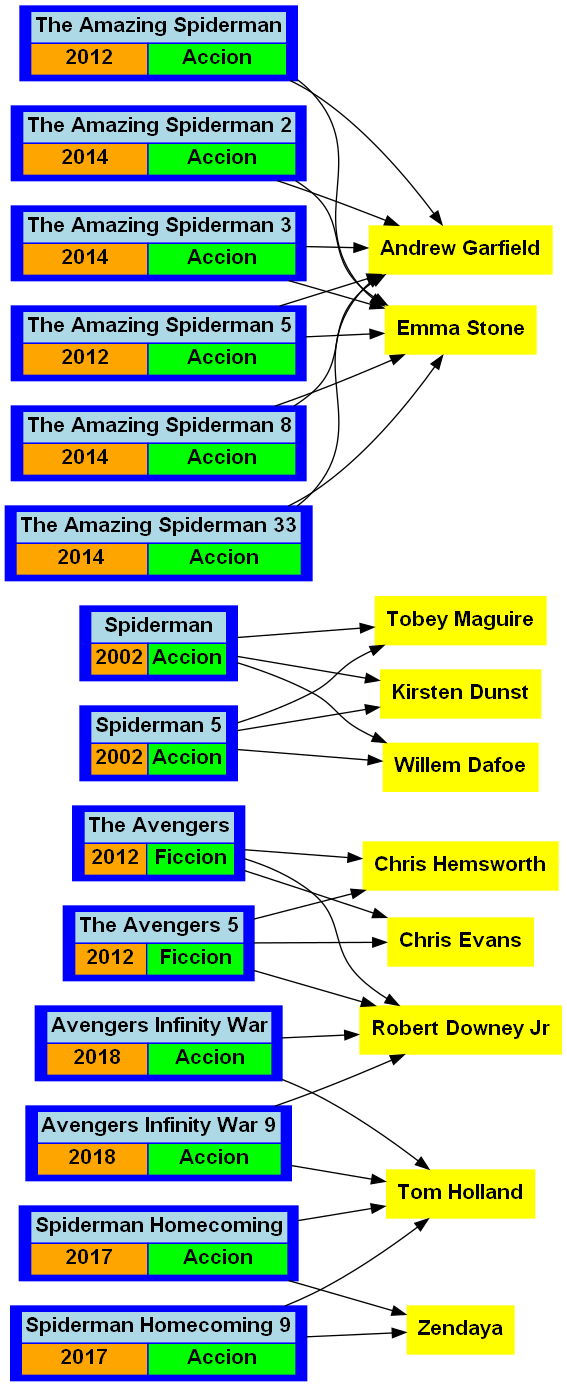
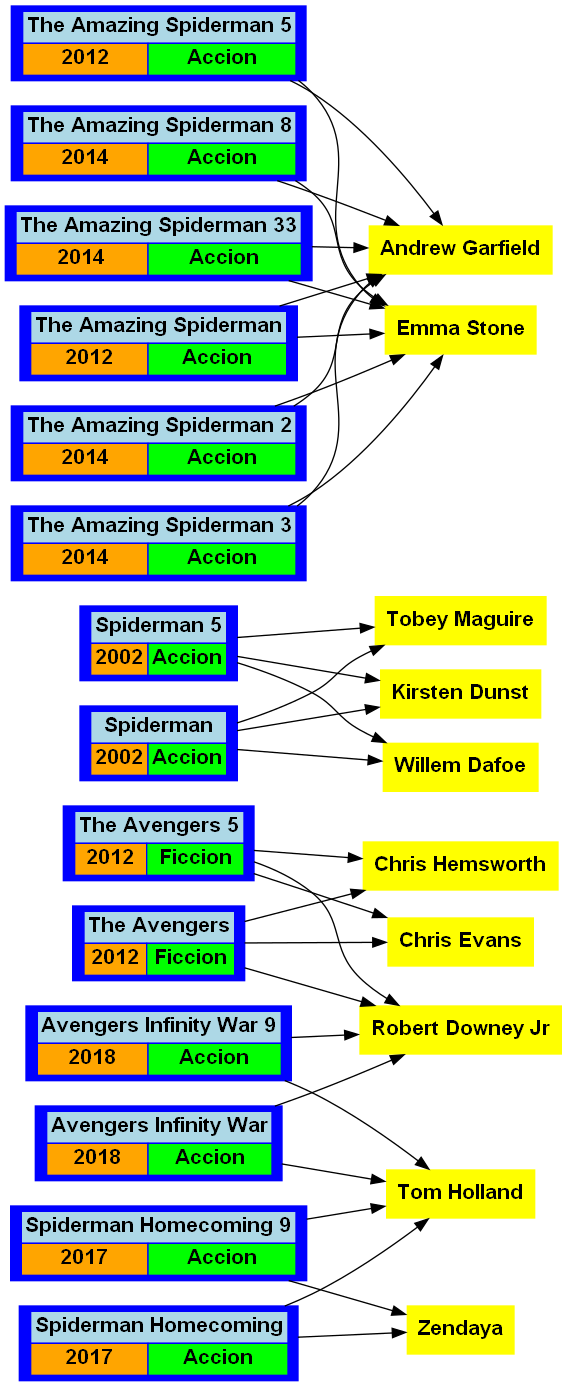
cambio para verificar carga de archivo

diff --git a/main.py b/main.py
@@ -42,10 +42,16 @@ def cargarArchivo(lista, nombres):
             elif i == 3:
                 tmp_genero = separador[i].strip()
         # comparamos si tmp_nombre se encuentra en la lista nombres, esta condicion funciona para verificar si hay alguna pelicula repetida, se compara con el nombre ya que es el unico elemento distinto
-        if tmp_nombre not in nombres:
-            peli = peliculas(tmp_nombre, tmp_actores, tmp_anio, tmp_genero)
-            lista.append(peli)
-            nombres.append(tmp_nombre)
+        if tmp_nombre in nombres:
+            for peli in lista:  # ciclo para buscar pelicula en la lista y removerla
+                if peli.nombre == tmp_nombre:
+                    lista.remove(peli)
+                    break
+        # se crea la lista objeto de peliculas
+        peli = peliculas(tmp_nombre, tmp_actores, tmp_anio, tmp_genero)
+        lista.append(peli)
+        nombres.append(tmp_nombre)
+
 
 # Funcion para mostrar los actores que se encuentran en una pelicula
 
